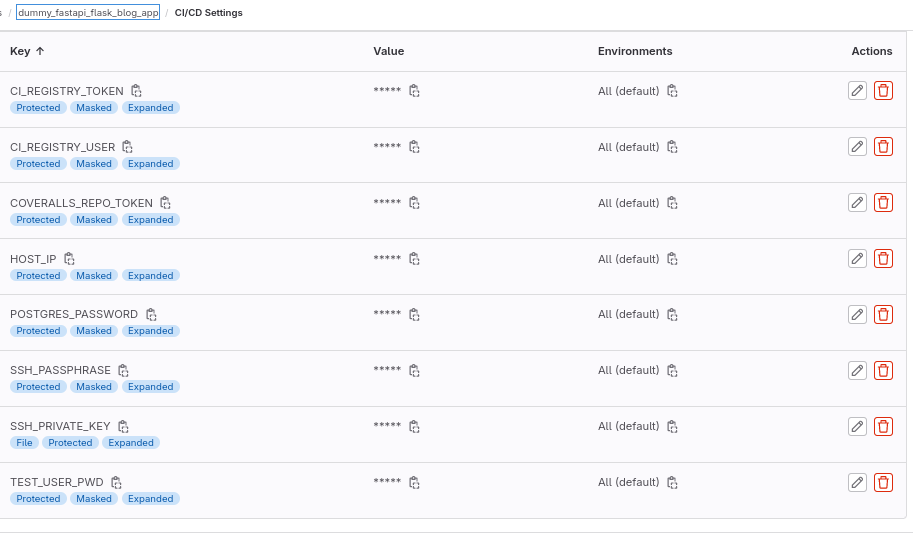
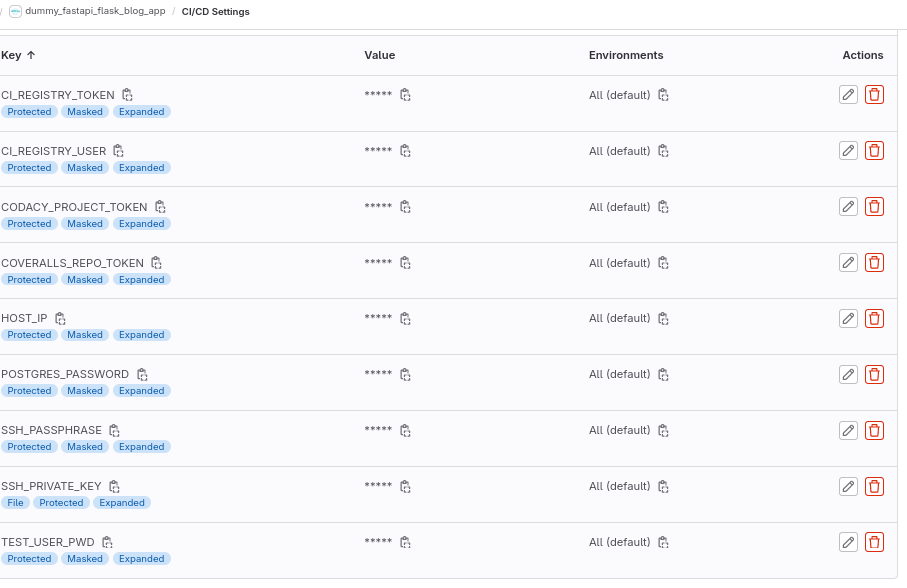
resolves-66-flask-fastapi-lint-flake8-black

diff --git a/app/packages/flask_app/project/book_routes_blueprint.py b/app/packages/flask_app/project/book_routes_blueprint.py
@@ -20,7 +20,6 @@ from werkzeug.utils import secure_filename
 from app.packages import log_events, settings
 from app.packages.database.commands import session_commands
 from app.packages.database.models.models import (
-    User,
     Book,
     BookCategory,
     Comment,
@@ -157,7 +156,6 @@ def add_book():
             )
         year_of_publication = form.year_of_publication.data
         book_picture = form.photo.data
-        uploaded_file = request.files["photo"]
         filename = secure_filename(book_picture.filename)
         new_book = Book(
             title=title,
@@ -187,7 +185,6 @@ def add_book():
                 session.add(new_book)
                 session.commit()
                 session.refresh(new_book)
-                user = session.get(User, new_book.user_id)
                 session.commit()
                 logs_context = {
                     "current_user": f"{current_user.username}",
@@ -219,7 +216,6 @@ def delete_book(book_id):
     session = session_commands.get_a_database_session()
     form = forms.DeleteInstanceForm()
     book_to_delete = session.get(Book, book_id)
-    user = session.get(User, book_to_delete.user_id)
     if current_user.id != book_to_delete.user_id and current_user.role != "admin":
         logs_context = {
             "current_user": f"{current_user.username}",
@@ -257,7 +253,7 @@ def update_book(book_id):
     Description: the update book Flask route.
     """
     session = session_commands.get_a_database_session()
-    book = (
+    a_book = (
         session.query(Book)
         .filter(Book.id.in_([book_id]))
         .options(joinedload(Book.book_comments))
@@ -269,15 +265,15 @@ def update_book(book_id):
         session.close()
         return redirect(url_for("book_routes_blueprint.books"))
 
-    if current_user.id != book.user_id and current_user.role != "admin":
+    if current_user.id != a_book.user_id and current_user.role != "admin":
         session.close()
         return abort(403)
-    book_picture_filename = book.book_picture_name
+    book_picture_filename = a_book.book_picture_name
     books_categories_query = session.query(BookCategory).all()
     books_categories = [(i.id, i.title) for i in books_categories_query]
     edit_form = forms.UpdateBookForm(
         books_categories=books_categories,
-        book=book,
+        book=a_book,
     )
     if edit_form.validate_on_submit():
         form = request.form.to_dict()
@@ -285,23 +281,23 @@ def update_book(book_id):
         if "title" in form:
             title = form["title"]
         else:
-            title = book.title
+            title = a_book.title
         if "summary" in form:
             summary = form["summary"]
         else:
-            summary = book.summary
+            summary = a_book.summary
         if "content" in form:
             content = form["content"]
         else:
-            content = book.content
+            content = a_book.content
         if "author" in form:
             author = form["author"]
         else:
-            author = book.author
+            author = a_book.author
         if "year_of_publication" in form:
             year_of_publication = int(form["year_of_publication"])
         else:
-            year_of_publication = book.year_of_publication
+            year_of_publication = a_book.year_of_publication
         if "categories" in form:
             category_id_from_form = int(form["categories"])
             try:
@@ -327,7 +323,7 @@ def update_book(book_id):
             filename = secure_filename(uploaded_file.filename)
         else:
             filename = book_picture_filename
-        publication_date = book.publication_date
+        publication_date = a_book.publication_date
         updated_book = Book(
             title=title,
             summary=summary,
@@ -384,6 +380,6 @@ def update_book(book_id):
     return render_template(
         "update_book.html",
         form=edit_form,
-        book=book,
+        book=a_book,
         is_authenticated=current_user.is_authenticated,
     )

diff --git a/README.md b/README.md
@@ -12,6 +12,7 @@
 ![Screenshot](https://img.shields.io/badge/coveralls--blue?logo=coveralls&logoColor=yellow)
 [![Coverage Status](https://coveralls.io/repos/gitlab/memphis-tools/dummy_fastapi_flask_blog_app/badge.svg?branch=HEAD)](https://coveralls.io/gitlab/memphis-tools/dummy_fastapi_flask_blog_app?branch=HEAD)
 [![Codacy Badge](https://app.codacy.com/project/badge/Grade/5aa0869a8f5a4835a74f84ba0088f69e)](https://app.codacy.com/gh/memphis-tools/dummy_fastapi_flask_blog_app/dashboard?utm_source=gh&utm_medium=referral&utm_content=&utm_campaign=Badge_grade)
+[![Known Vulnerabilities](https://snyk.io/test/github/memphis-tools/dummy_fastapi_flask_blog_app/badge.svg)]
 
 # DUMMY APP FOR LEARNING PURPOSES
 **This is dummy blog application.**
@@ -95,6 +96,10 @@ Vault
 
 Lynis (for the virtual machine, droplet, hardening)
 
+Codacy
+
+Snyk
+
 ## HOW TO SET IT, HOW IT WORKS
 
   Notice: if you use VisualCode remember that you can preview the markdown from VisualCode by running: Ctrl+Shift+V
@@ -103,9 +108,9 @@ Lynis (for the virtual machine, droplet, hardening)
 
   The FastAPI app is the main one, and executes the database initialization at boot.
 
-  Github Action workflows are used. If you want the GitGuardian check, you must set the secret.
+  Github Action workflows are used. You must set secrets (tokens which allow the exchanges).
 
-  ![Screenshot](illustrations/github_secret_gitguardian.png)
+  ![Screenshot](illustrations/github_secrets.png)
 
 ### POSTGRESQL PREQUISITES FOR LOCAL USAGE
 --------------------------
@@ -173,7 +178,7 @@ Lynis (for the virtual machine, droplet, hardening)
 
     Nginx (as reverse proxy), Uvicorn (for FastAPI), Gunicorn (for Flask), Postgresql and Grafana.
 
-    At the project root folder, touch (create) an ".envrc.docker.local".
+    At the project root folder, touch (create) an **".envrc.docker.local"**.
 
     Notice that this file is the one used for local deployment with local-docker-compose.yml.
 
